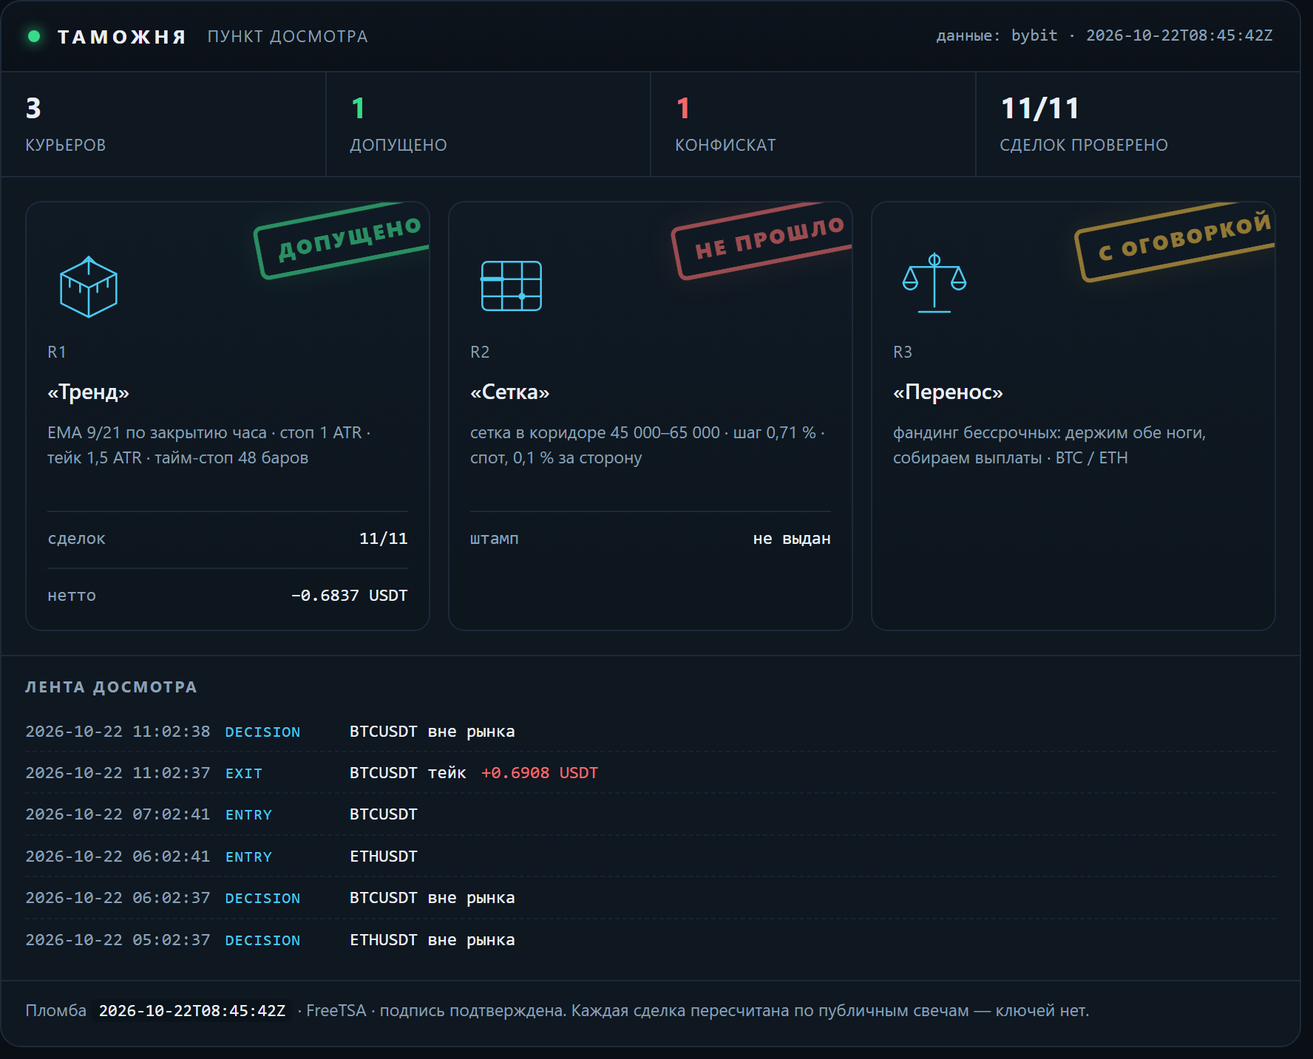
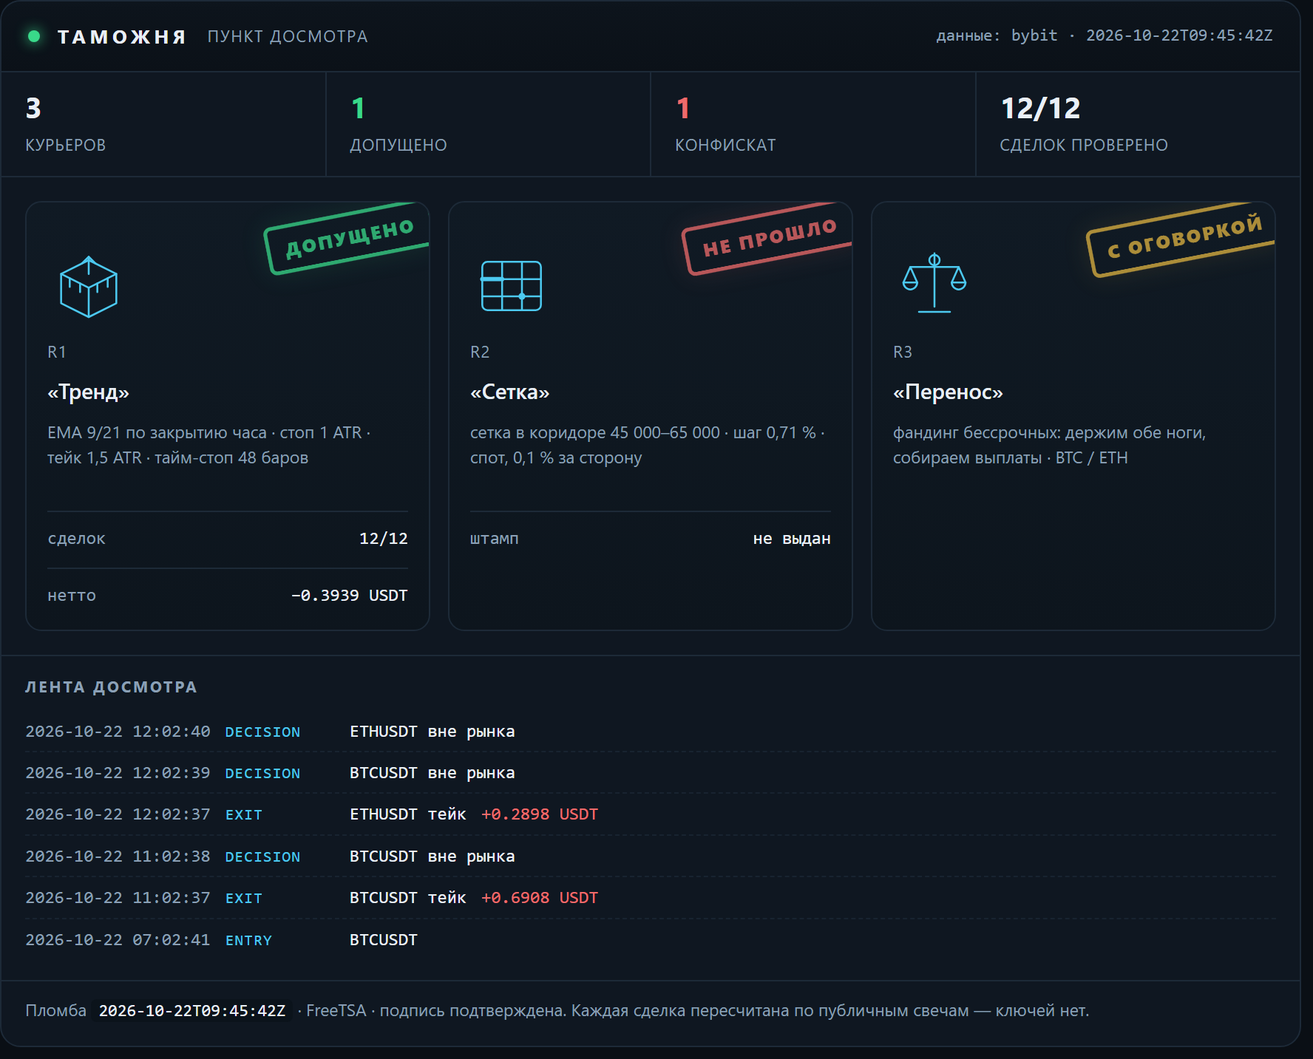
lab: таможня — свежие числа досмотра

diff --git a/docs/customs.html b/docs/customs.html
@@ -16,7 +16,7 @@
   <h1><a href="index.html">Gramwright Lab</a></h1>
   <p>Журнал проверки торговых гипотез: что проверяли, что вышло по факту, сколько съели издержки. Числа берутся из журнала стенда. Не инвестиционная рекомендация.</p>
 </header>
-<h1>Таможня</h1><p class="intro">Пункт досмотра заявленных результатов. Стратегии приезжают с грузом обещаний, и каждая проходит проверку по публичным данным биржи: цены существуют, комиссии по тарифу, нетто сходится. Что прошло — получает штамп. Что не прошло — в конфискат, с причиной. Штамп означает «записи подлинные», а не «стратегия прибыльна».</p><p><img src="img/customs.png" alt="Терминал досмотра: три курьера, штампы, лента событий" style="width:100%;height:auto;border:1px solid var(--line);border-radius:10px"></p><p class="c-note">Сверху — тот же терминал, что собирается из журналов: счётчики, эмблемы курьеров, штампы и лента последних событий. Ниже — то же самое текстом, чтобы читалось с телефона и индексировалось поиском.</p><article><h2>R1 «Тренд» <span class="verdict">— <span class="c-ok">допущено</span></span></h2><p><strong>Правило:</strong> EMA 9/21 по закрытию часа · стоп 1 ATR · тейк 1,5 ATR · тайм-стоп 48 баров</p><p><strong>Декларация:</strong> Заявлено до прогона: держать 30 сделок, лимит нотионала 10 % от счёта, стоп дня −1 %. Прибыль не заявлялась — это важно: курьер не обещал доход.</p><p><strong>Проверено по публичным свечам, без ключей:</strong> 11 из 11 сделок. Сумма нетто −0.6837 USDT.</p><ul class="c-chk"><li class="y">BTCUSDT: нетто −0.8746 USDT · комиссии 0.0901 · проверено · с поправкой</li><li class="y">BTCUSDT: нетто −0.5441 USDT · комиссии 0.0896 · проверено</li><li class="y">ETHUSDT: нетто −0.2253 USDT · комиссии 0.0266 · проверено</li><li class="y">ETHUSDT: нетто −0.1513 USDT · комиссии 0.0265 · проверено</li><li class="y">ETHUSDT: нетто +0.1984 USDT · комиссии 0.0262 · проверено</li><li class="y">ETHUSDT: нетто +0.1617 USDT · комиссии 0.0260 · проверено</li><li class="y">ETHUSDT: нетто +0.2645 USDT · комиссии 0.0263 · проверено</li><li class="y">BTCUSDT: нетто +0.6246 USDT · комиссии 0.0897 · проверено</li><li class="y">BTCUSDT: нетто −0.5881 USDT · комиссии 0.0910 · проверено</li><li class="y">ETHUSDT: нетто −0.2403 USDT · комиссии 0.0270 · проверено</li><li class="y">BTCUSDT: нетто +0.6908 USDT · комиссии 0.0908 · проверено</li></ul><p class="tags">журнал sha256 be044ebb8438af7b… · проверяльщик verify-1</p><p class="c-note">Штамп означает: записи подлинные, а не что стратегия прибыльна. Курьер в минусе, и минус тоже стоит на штампе — иначе это была бы не проверка, а реклама.</p><p class="tags">источник: verify-report.json</p></article><article><h2>R2 «Сетка» <span class="verdict">— <span class="c-bad">не прошло</span></span></h2><p><strong>Правило:</strong> сетка в коридоре 45 000–65 000 · шаг 0,71 % · спот, 0,1 % за сторону</p><p><strong>Декларация:</strong> Заявлено: «44 % урожая уходит бирже в виде комиссий». Кроме того — перевес над простым владением монетой.</p><p><strong>Что сошлось:</strong></p><ul class="c-chk"><li class="y">сами числа пересчитаны и воспроизводятся: коридор 45–65k был активен 23 % всей истории и 28 % последних двух лет</li></ul><p><strong>Что не сошлось:</strong></p><ul class="c-chk"><li class="n">44 % не подтвердилось: при шаге 0,71 % и тарифе 0,1 % комиссия съедает 28,3 % шага. Чтобы получить 44 %, нужен шаг 0,45 % — это около 80 уровней, а не 50</li><li class="n">от урожая доля комиссий 85,5 % за всю историю и 49,6 % за последние два года — тоже не 44 %</li><li class="n">перевес над владением посчитан на тарифе 0,055 %: при нём +1,32 п. п., на розничном 0,1 % — −0,72 п. п. То есть перевес исчезает</li><li class="n">семилетний тест стартовал в сентябре 2019 при биткоине около 10 000 — ниже коридора. Он говорит, что фиксированный коридор не подходит для периода, а не что сетка отстаёт</li></ul><p class="tags">источник: lab_grid.py, пересчёт 17.10.2026</p></article><article><h2>R3 «Перенос» <span class="verdict">— <span class="c-warn">с оговоркой</span></span></h2><p><strong>Правило:</strong> фандинг бессрочных: держим обе ноги, собираем выплаты · BTC / ETH</p><p><strong>Декларация:</strong> Заявлено: около 11,9 % в год от выплат фандинга при просадке выплатной кривой меньше 2 %.</p><p><strong>Что сошлось:</strong></p><ul class="c-chk"><li class="y">выплаты взяты из публичной истории биржи, ключей не нужно: BTC — 7 190 выплат с 25.03.2020, ETH — 6 561 с 21.10.2020</li><li class="y">сумма сходится: +83,4 % и +83,2 % за 6,6 и 6,0 года — те самые ~11,9 % в год</li><li class="y">худшая просадка выплатной кривой: −1,65 % и −1,97 %</li></ul><p><strong>Что не сошлось:</strong></p><ul class="c-chk"><li class="n">оговорка 1: премию сжали — 2021 год дал +38,3 %, 2026 — +1,96 %. Прошлое не повторяется</li><li class="n">оговорка 2: вход-выход стоит около 0,31 %, капитала нужно 1,2 от нотионала, текущий базис −0,082 % против входа</li><li class="n">оговорка 3: риск площадки. История FTX в этой же таблице выглядела так же прилично</li></ul><p class="tags">источник: публичная история фандинга Bybit, замер 17.10.2026</p></article><div class="c-conf"><h3>Конфискат</h3><p><strong>«Сетка»: заявленные 44 % комиссий не подтвердились.</strong> Досмотр показал 28,3 % от шага и 85,5 % от урожая — цифра хуже заявленной по форме, но лучше по смыслу: сетку убивает не размер шага, а то, что урожай почти весь уходит в комиссии. Это и вышло в выпуск — с поправкой, а не с красивой цифрой.</p></div><p class="c-note">Пломба: <code>2026-10-22T08:45:42Z</code> · нотариус FreeTSA · Oct 22 08:45:42 2026 GMT · подпись подтверждена. Манифест скрепляет отчёт проверки, журнал сделок и декларации курьеров: подменишь любую цифру — пломба перестанет сходиться.</p><p class="c-note">Досмотр идёт по публичным минутным свечам и публичной истории фандинга — ключей у проверяющего нет, и он может повторить проверку сам.</p><p class="c-note">Контент образовательный, не является инвестиционной рекомендацией. Торговля связана с риском потери капитала.</p>
+<h1>Таможня</h1><p class="intro">Пункт досмотра заявленных результатов. Стратегии приезжают с грузом обещаний, и каждая проходит проверку по публичным данным биржи: цены существуют, комиссии по тарифу, нетто сходится. Что прошло — получает штамп. Что не прошло — в конфискат, с причиной. Штамп означает «записи подлинные», а не «стратегия прибыльна».</p><p><img src="img/customs.png" alt="Терминал досмотра: три курьера, штампы, лента событий" style="width:100%;height:auto;border:1px solid var(--line);border-radius:10px"></p><p class="c-note">Сверху — тот же терминал, что собирается из журналов: счётчики, эмблемы курьеров, штампы и лента последних событий. Ниже — то же самое текстом, чтобы читалось с телефона и индексировалось поиском.</p><article><h2>R1 «Тренд» <span class="verdict">— <span class="c-ok">допущено</span></span></h2><p><strong>Правило:</strong> EMA 9/21 по закрытию часа · стоп 1 ATR · тейк 1,5 ATR · тайм-стоп 48 баров</p><p><strong>Декларация:</strong> Заявлено до прогона: держать 30 сделок, лимит нотионала 10 % от счёта, стоп дня −1 %. Прибыль не заявлялась — это важно: курьер не обещал доход.</p><p><strong>Проверено по публичным свечам, без ключей:</strong> 12 из 12 сделок. Сумма нетто −0.3939 USDT.</p><ul class="c-chk"><li class="y">BTCUSDT: нетто −0.8746 USDT · комиссии 0.0901 · проверено · с поправкой</li><li class="y">BTCUSDT: нетто −0.5441 USDT · комиссии 0.0896 · проверено</li><li class="y">ETHUSDT: нетто −0.2253 USDT · комиссии 0.0266 · проверено</li><li class="y">ETHUSDT: нетто −0.1513 USDT · комиссии 0.0265 · проверено</li><li class="y">ETHUSDT: нетто +0.1984 USDT · комиссии 0.0262 · проверено</li><li class="y">ETHUSDT: нетто +0.1617 USDT · комиссии 0.0260 · проверено</li><li class="y">ETHUSDT: нетто +0.2645 USDT · комиссии 0.0263 · проверено</li><li class="y">BTCUSDT: нетто +0.6246 USDT · комиссии 0.0897 · проверено</li><li class="y">BTCUSDT: нетто −0.5881 USDT · комиссии 0.0910 · проверено</li><li class="y">ETHUSDT: нетто −0.2403 USDT · комиссии 0.0270 · проверено</li><li class="y">BTCUSDT: нетто +0.6908 USDT · комиссии 0.0908 · проверено</li><li class="y">ETHUSDT: нетто +0.2898 USDT · комиссии 0.0267 · проверено</li></ul><p class="tags">журнал sha256 cd8363494ad65759… · проверяльщик verify-1</p><p class="c-note">Штамп означает: записи подлинные, а не что стратегия прибыльна. Курьер в минусе, и минус тоже стоит на штампе — иначе это была бы не проверка, а реклама.</p><p class="tags">источник: verify-report.json</p></article><article><h2>R2 «Сетка» <span class="verdict">— <span class="c-bad">не прошло</span></span></h2><p><strong>Правило:</strong> сетка в коридоре 45 000–65 000 · шаг 0,71 % · спот, 0,1 % за сторону</p><p><strong>Декларация:</strong> Заявлено: «44 % урожая уходит бирже в виде комиссий». Кроме того — перевес над простым владением монетой.</p><p><strong>Что сошлось:</strong></p><ul class="c-chk"><li class="y">сами числа пересчитаны и воспроизводятся: коридор 45–65k был активен 23 % всей истории и 28 % последних двух лет</li></ul><p><strong>Что не сошлось:</strong></p><ul class="c-chk"><li class="n">44 % не подтвердилось: при шаге 0,71 % и тарифе 0,1 % комиссия съедает 28,3 % шага. Чтобы получить 44 %, нужен шаг 0,45 % — это около 80 уровней, а не 50</li><li class="n">от урожая доля комиссий 85,5 % за всю историю и 49,6 % за последние два года — тоже не 44 %</li><li class="n">перевес над владением посчитан на тарифе 0,055 %: при нём +1,32 п. п., на розничном 0,1 % — −0,72 п. п. То есть перевес исчезает</li><li class="n">семилетний тест стартовал в сентябре 2019 при биткоине около 10 000 — ниже коридора. Он говорит, что фиксированный коридор не подходит для периода, а не что сетка отстаёт</li></ul><p class="tags">источник: lab_grid.py, пересчёт 17.10.2026</p></article><article><h2>R3 «Перенос» <span class="verdict">— <span class="c-warn">с оговоркой</span></span></h2><p><strong>Правило:</strong> фандинг бессрочных: держим обе ноги, собираем выплаты · BTC / ETH</p><p><strong>Декларация:</strong> Заявлено: около 11,9 % в год от выплат фандинга при просадке выплатной кривой меньше 2 %.</p><p><strong>Что сошлось:</strong></p><ul class="c-chk"><li class="y">выплаты взяты из публичной истории биржи, ключей не нужно: BTC — 7 190 выплат с 25.03.2020, ETH — 6 561 с 21.10.2020</li><li class="y">сумма сходится: +83,4 % и +83,2 % за 6,6 и 6,0 года — те самые ~11,9 % в год</li><li class="y">худшая просадка выплатной кривой: −1,65 % и −1,97 %</li></ul><p><strong>Что не сошлось:</strong></p><ul class="c-chk"><li class="n">оговорка 1: премию сжали — 2021 год дал +38,3 %, 2026 — +1,96 %. Прошлое не повторяется</li><li class="n">оговорка 2: вход-выход стоит около 0,31 %, капитала нужно 1,2 от нотионала, текущий базис −0,082 % против входа</li><li class="n">оговорка 3: риск площадки. История FTX в этой же таблице выглядела так же прилично</li></ul><p class="tags">источник: публичная история фандинга Bybit, замер 17.10.2026</p></article><div class="c-conf"><h3>Конфискат</h3><p><strong>«Сетка»: заявленные 44 % комиссий не подтвердились.</strong> Досмотр показал 28,3 % от шага и 85,5 % от урожая — цифра хуже заявленной по форме, но лучше по смыслу: сетку убивает не размер шага, а то, что урожай почти весь уходит в комиссии. Это и вышло в выпуск — с поправкой, а не с красивой цифрой.</p></div><p class="c-note">Пломба: <code>2026-10-22T09:45:42Z</code> · нотариус FreeTSA · Oct 22 09:45:42 2026 GMT · подпись подтверждена. Манифест скрепляет отчёт проверки, журнал сделок и декларации курьеров: подменишь любую цифру — пломба перестанет сходиться.</p><p class="c-note">Досмотр идёт по публичным минутным свечам и публичной истории фандинга — ключей у проверяющего нет, и он может повторить проверку сам.</p><p class="c-note">Контент образовательный, не является инвестиционной рекомендацией. Торговля связана с риском потери капитала.</p>
 <footer class="site">
   Код стенда и аудитора: <a href="https://github.com/XSlaidx/truth-engine">XSlaidx/truth-engine</a>
   &middot; <a href="graveyard.html">кладбище правил</a>
